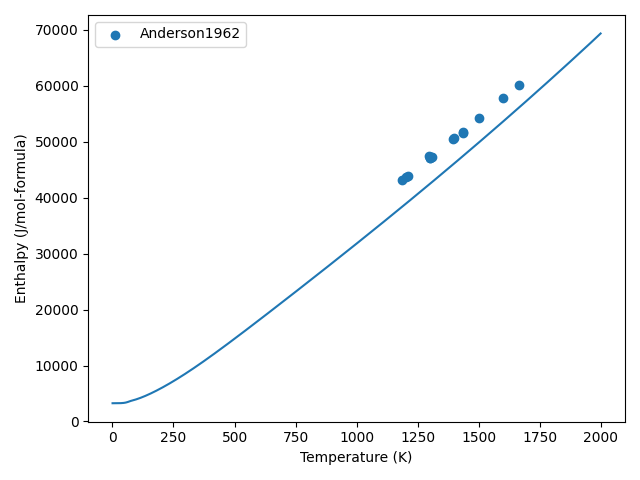
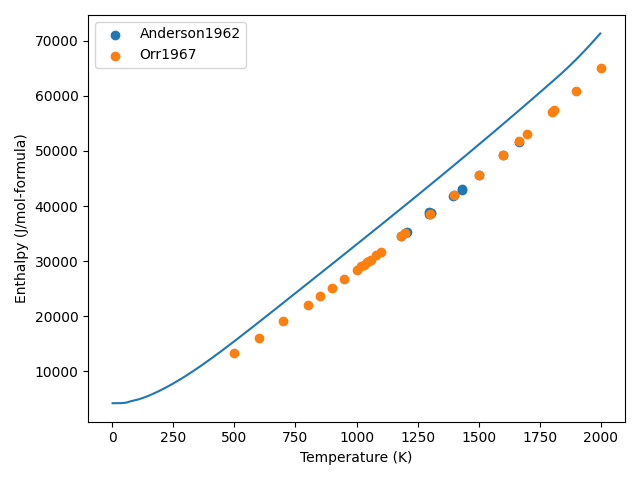
Fixed issue with two-state Cp calculation not being included in the fitting routine correctly. Updated the FE unary descriptions. There's still a discrepancy between calculated Cp using the segmented regression routine and using pycalphad from the resultant Gibbs energy parameters that I need to res

diff --git a/libreCalphad/databases/LC-steels_validation/FE/FE-test-fcc.py b/libreCalphad/databases/LC-steels_validation/FE/FE-test-fcc.py
@@ -39,14 +39,6 @@ ax.set_ylabel("Isobaric Heat Capacity (J/mol-formula-K)")
 ax.legend()
 fig.tight_layout()
 plt.savefig(f"./CPM-CALC-FE-{phase[0]}.png")
-ax.set_xlim((0, 300))
-# ax.set_ylim((0, 30))
-plt.savefig(f"./CPM-CALC-FE-{phase[0]}-300K.png")
-ax.set_xlim((1e0, 1e2))
-ax.set_xscale("log")
-# ax.set_ylim((1e-3, 1e1))
-# ax.set_yscale("log")
-plt.savefig(f"./CPM-CALC-FE-{phase[0]}-0K.png")
 plt.close()
 
 # Enthalpy plotting
@@ -54,7 +46,7 @@ plt.close()
 query = (
     (where("phases") == phase)
     & (where("components") == components)
-    & (where("output") == "HM")
+    & (where("output") == "DH")
 )
 search_results = datasets.search(query)
 
@@ -63,15 +55,15 @@ calc_res = calculate(
     dbf, components, phase, T=(0.5, 2000, 2), P=101325, N=1, output="HM"
 )
 H298 = (
-    calculate(dbf, components, phase, T=298.15, P=101325, N=1, output="HM")
+    calculate(dbf, components, "BCC_A2", T=298.15, P=101325, N=1, output="HM")
     .HM.squeeze()
     .values
 )
-ax.plot(calc_res.T, calc_res.HM.squeeze())
+ax.plot(calc_res.T, calc_res.HM.squeeze() - H298)
 for result in search_results:
     ax.scatter(
         result["conditions"]["T"],
-        np.array(result["values"]).squeeze() + H298,
+        np.array(result["values"]).squeeze(),
         label=result["reference"],
     )
 ax.set_xlabel("Temperature (K)")
@@ -86,7 +78,7 @@ plt.close()
 query = (
     (where("phases") == phase)
     & (where("components") == components)
-    & (where("output") == "SM")
+    & (where("output") == "DS")
 )
 search_results = datasets.search(query)
 
@@ -95,15 +87,15 @@ calc_res = calculate(
     dbf, components, phase, T=(0.5, 2000, 2), P=101325, N=1, output="SM"
 )
 S298 = (
-    calculate(dbf, components, phase, T=298.15, P=101325, N=1, output="SM")
+    calculate(dbf, components, "BCC_A2", T=298.15, P=101325, N=1, output="SM")
     .SM.squeeze()
     .values
 )
-ax.plot(calc_res.T, calc_res.SM.squeeze())
+ax.plot(calc_res.T, calc_res.SM.squeeze() - S298)
 for result in search_results:
     ax.scatter(
         result["conditions"]["T"],
-        np.array(result["values"]).squeeze() + S298,
+        np.array(result["values"]).squeeze(),
         label=result["reference"],
     )
 ax.set_xlabel("Temperature (K)")

diff --git a/libreCalphad/databases/LC-steels_validation/FE/FE-fit-fcc.py b/libreCalphad/databases/LC-steels_validation/FE/FE-fit-fcc.py
@@ -154,49 +154,3 @@ ax.set_ylabel("Heat Capacity (J/mol-K-atom)")
 ax.legend()
 fig.tight_layout()
 fig.savefig("./FE-Cp-FCC_A1.png")
-
-# < 300 K
-fig, ax = plt.subplots()
-for dataset in search_results:
-    ax.scatter(
-        dataset["conditions"]["T"],
-        np.array(dataset["values"]).squeeze(),
-        label=dataset["reference"],
-    )
-ax.plot(df_model["temperature"], df_model["einstein_model"], label="Einstein")
-ax.plot(df_model["temperature"], df_model["magnetic_model"], label="Magnetic")
-ax.plot(df_model["temperature"], df_model["bent_cable_model"], label="Bent Cable")
-ax.plot(df_model["temperature"], df_model["two-state"], label="Two-state")
-ax.plot(df_model["temperature"], df_model["cumulative_model"], label="Cumulative")
-
-ax.set_xlim((0, 300))
-ax.set_xlabel("Temperature (K)")
-ax.set_ylim((0, 30))
-ax.set_ylabel("Heat Capacity (J/mol-K-atom)")
-ax.legend()
-fig.tight_layout()
-fig.savefig("./FE-Cp-FCC_A1-300K.png")
-
-# Close to 0 K
-fig, ax = plt.subplots()
-for dataset in search_results:
-    ax.scatter(
-        dataset["conditions"]["T"],
-        np.array(dataset["values"]).squeeze(),
-        label=dataset["reference"],
-    )
-ax.plot(df_model["temperature"], df_model["einstein_model"], label="Einstein")
-ax.plot(df_model["temperature"], df_model["magnetic_model"], label="Magnetic")
-ax.plot(df_model["temperature"], df_model["bent_cable_model"], label="Bent Cable")
-ax.plot(df_model["temperature"], df_model["two-state"], label="Two-state")
-ax.plot(df_model["temperature"], df_model["cumulative_model"], label="Cumulative")
-
-ax.set_xlim((1e0, 1e2))
-ax.set_xscale("log")
-ax.set_xlabel("Temperature (K)")
-ax.set_ylim((1e-3, 1e1))
-ax.set_yscale("log")
-ax.set_ylabel("Heat Capacity (J/mol-K-atom)")
-ax.legend()
-fig.tight_layout()
-fig.savefig("Fe-Cp-FCC_A1-0K.png")

diff --git a/libreCalphad/models/segmented_regression.py b/libreCalphad/models/segmented_regression.py
@@ -502,6 +502,7 @@ def _fit_segmented_regression(x, arg_dict):
     Cp_array = arg_dict["Cp_array"]
     models = arg_dict["models"]
     if "einstein" in list(models.keys()):
+        model_params = []
         einstein_dict = models["einstein"]
         theta_list = einstein_dict["theta"]
         if "fit" in theta_list:
@@ -511,6 +512,7 @@ def _fit_segmented_regression(x, arg_dict):
         else:
             model_Cp += _einstein_Cp(temperature_array, theta_list[0])
     elif "holzapfel" in list(models.keys()):
+        model_params = []
         holzapfel_dict = models["holzapfel"]
         theta_list = holzapfel_dict["theta"]
         if "fit" in theta_list:
@@ -520,6 +522,7 @@ def _fit_segmented_regression(x, arg_dict):
         else:
             model_Cp += _holzapfel_debye_Cp(temperature_array, theta_list[0])
     if "xiong" in list(models.keys()):
+        model_params = []
         # Need beta, p, and Tc (or Tn)
         xiong_dict = models["xiong"]
         beta_list = xiong_dict["beta"]
@@ -559,6 +562,7 @@ def _fit_segmented_regression(x, arg_dict):
                 model_params.append(param_list[0])
         model_Cp += _bent_cable_Cp(temperature_array, *model_params)
     if "two-state" in list(models.keys()):
+        model_params = []
         param_list = models["two-state"]["dE"]
         if "fit" in param_list:
             if isinstance(param_list[0], (float, int)):
@@ -574,6 +578,7 @@ def _fit_segmented_regression(x, arg_dict):
             else:
                 for param in param_list[0]:
                     model_params.append(param)
+        model_Cp += _twostate_Cp(temperature_array, model_params)
 
     return _calc_RSE(model_Cp, Cp_array)
 

diff --git a/libreCalphad/databases/LC-steels_validation/FE/FE-test-bcc.py b/libreCalphad/databases/LC-steels_validation/FE/FE-test-bcc.py
@@ -53,7 +53,7 @@ plt.close()
 query = (
     (where("phases") == phase)
     & (where("components") == components)
-    & (where("output") == "HM")
+    & (where("output") == "DH")
 )
 search_results = datasets.search(query)
 
@@ -85,7 +85,7 @@ plt.close()
 query = (
     (where("phases") == phase)
     & (where("components") == components)
-    & (where("output") == "SM")
+    & (where("output") == "DS")
 )
 search_results = datasets.search(query)
 
